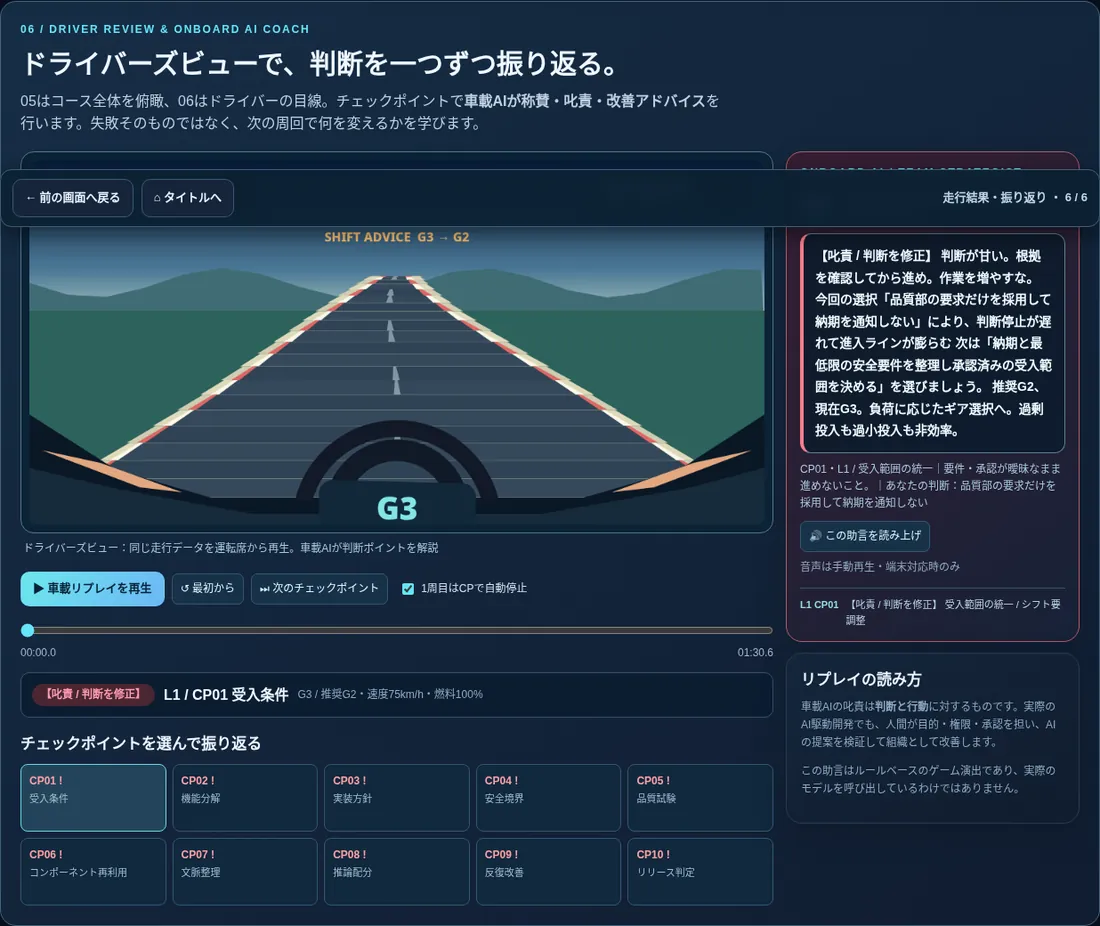
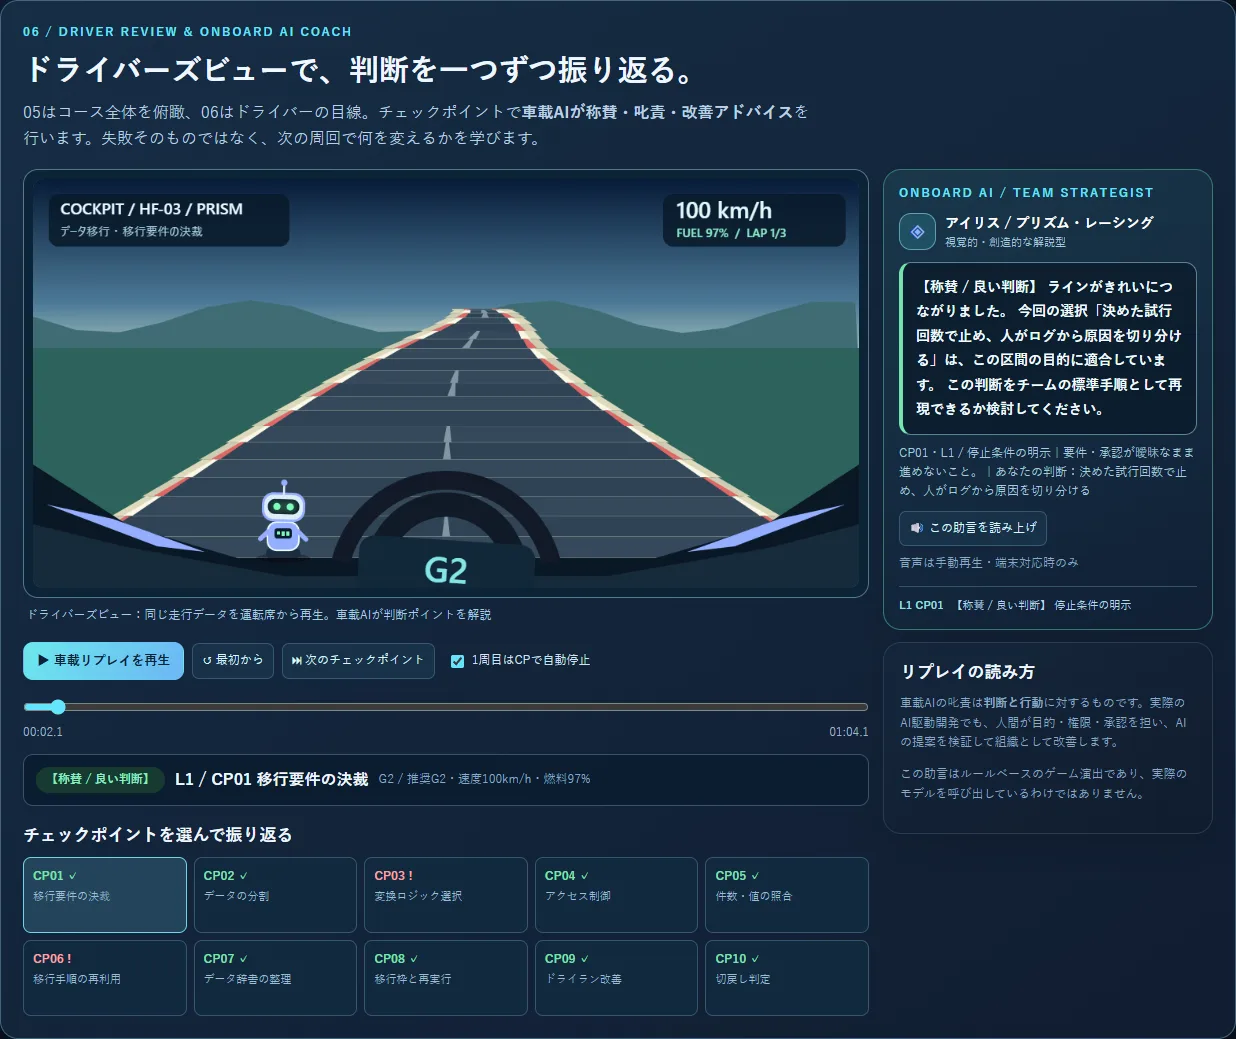
Resolve remaining release items: screenshots, OG card, line endings, team car preview
- Retake README screenshots from the current build (the old race.webp
  showed real AI product names from an earlier version)
- Add a 1200x630 OG/X card image and og:url/og:image/twitter:image tags
- Add .gitattributes (LF) so SHA256SUMS.txt stays valid on Windows
- Show each team's car on the team detail panel
- DEPLOY.md and SHA256SUMS.txt updated for the new files

diff --git a/index.html b/index.html
@@ -9,7 +9,14 @@
 <meta property="og:locale" content="ja_JP">
 <meta property="og:title" content="ハーネスフォーミュラ｜人 × AI × チームで走り切れ">
 <meta property="og:description" content="速いAIだけでは勝てない。10問の判断を2Dレースに変えて学ぶ、チームAI駆動開発ゲーム。">
-<meta name="twitter:card" content="summary">
+<meta property="og:url" content="https://kanameshiga-dev.github.io/harness-formula/">
+<meta property="og:image" content="https://kanameshiga-dev.github.io/harness-formula/assets/og-image.png">
+<meta property="og:image:type" content="image/png">
+<meta property="og:image:width" content="1200">
+<meta property="og:image:height" content="630">
+<meta property="og:image:alt" content="ハーネスフォーミュラのタイトルと、近未来フォーミュラマシンが走るサーキットのイラスト">
+<meta name="twitter:card" content="summary_large_image">
+<meta name="twitter:image" content="https://kanameshiga-dev.github.io/harness-formula/assets/og-image.png">
 <link rel="icon" href="./favicon.svg" type="image/svg+xml">
 <style>
 :root{--bg:#09111f;--panel:#101d30;--panel2:#15243a;--line:#2a3b51;--ink:#eff7ff;--muted:#9db0c6;--cyan:#65e4fb;--mint:#75ebac;--amber:#ffca6a;--red:#ff7582;--blue:#90b8ff}
@@ -187,6 +194,7 @@ details.fold>.championship{margin-top:0}
 .race-telop .telop-label{display:inline-block;min-width:7em;color:var(--muted);font-size:12px}
 .race-telop .mini-btn{margin-top:8px}
 @media(max-width:680px){.race-telop{position:static;margin-top:6px;font-size:13px;padding:8px 10px}.race-telop .telop-label{display:block;min-width:0}}
+.team-car-preview{display:block;width:180px;height:60px;margin:4px 0 6px}
 </style>
 </head>
 <body>
@@ -372,6 +380,7 @@ function renderTeams(){
  b.addEventListener('click',()=>chooseTeam(t.id));grid.append(b)});
  const t=chosenTeam(),detail=document.getElementById('teamDetail');detail.replaceChildren();
  const head=document.createElement('h3');head.textContent=t.family+' / '+t.model;detail.append(head);
+ const car=document.createElement('canvas');car.width=360;car.height=120;car.className='team-car-preview';car.setAttribute('role','img');car.setAttribute('aria-label',t.name+'のマシン（上から見た図）');const cc=car.getContext('2d');cc.scale(3,3);drawCar({x:58,y:20,heading:0},t.color,false,CAR_STYLES[t.id],cc);detail.append(car);
  const p=document.createElement('p');p.textContent=t.brief+' '+t.tools;detail.append(p);
  const bars=document.createElement('div');bars.className='team-bars';t.skills.forEach((v,i)=>{const box=document.createElement('div');box.innerHTML='<div class="team-bar-label"><span></span><b></b></div><div class="team-bar-track"><i></i></div>';box.querySelector('span').textContent=TALENT_NAMES[i];box.querySelector('b').textContent=v;box.querySelector('i').style.width=v+'%';box.querySelector('i').style.background=t.color;bars.append(box)});detail.append(bars);
  const foot=document.createElement('p');foot.style.marginTop='12px';foot.textContent='燃料効率：'+t.economy+'/100（ゲーム値）｜全チーム共通で、勝敗の中心は人とAIの判断・設定・品質です。';detail.append(foot);
@@ -990,8 +999,8 @@ const CAR_STYLES={
  fortress:{nose:'flat',pod:1.4,fw:2,rw:'wide',fin:false,accent:'#4d1612',mark:'twin'},
  enduro:{nose:'shark',pod:1,fw:1,rw:'high',fin:true,accent:'#3c2f06',mark:'center'}
 };
-function drawCar(f,color,ghost=false,style=CAR_STYLES[chosenTeam().id]||CAR_STYLES.aurora){
- const c=ctx,st=style,pw=7*st.pod,tip={needle:25,shark:23,round:22,flat:21}[st.nose],nw={needle:1.8,shark:2.4,round:3,flat:3.6}[st.nose];
+function drawCar(f,color,ghost=false,style=CAR_STYLES[chosenTeam().id]||CAR_STYLES.aurora,target=ctx){
+ const c=target,st=style,pw=7*st.pod,tip={needle:25,shark:23,round:22,flat:21}[st.nose],nw={needle:1.8,shark:2.4,round:3,flat:3.6}[st.nose];
  c.save();c.translate(f.x,f.y);c.rotate(f.heading);if(ghost)c.globalAlpha=.6;
  const dark='#07111c',edge=ghost?'#efffed':'#e3faff';
  // rear wing

diff --git a/DEPLOY.md b/DEPLOY.md
@@ -21,7 +21,8 @@ PRIVACY.md             データ保存と外部通信について
 favicon.svg            ブラウザタブのアイコン
 .nojekyll              Jekyllの変換処理を無効化
 .gitignore             不要ファイルのGit登録を抑制
-assets/                README用スクリーンショット
+.gitattributes         改行コードをLFに固定（SHA256SUMS.txt の照合を保つ）
+assets/                README用スクリーンショットとSNSカード画像（og-image.png）
 ```
 
 ## 確認ポイント
@@ -40,7 +41,7 @@ assets/                README用スクリーンショット
 - **既存記録の移行**：`file://` で遊んだ記録や別URLの記録は、GitHub Pages上の記録へ自動移行しません。
 - **Xへのリンク**：全制覇時はXの投稿作成画面を新規タブで開きます。投稿には本人の操作が必要です。Xログインやブラウザ設定によっては開けないことがあります。その場合はゲーム内のコピー機能を利用してください。
 - **プレビュー画像**：README内のスクリーンショットはゲーム内では読み込まれません。ゲーム自体は `index.html` だけで動作します。
-- **SNSカード画像**：この版では公開URLが未確定のため `og:image` を付けていません。共有サムネイルを出したい場合は公開後に絶対HTTPS URLで指定してください。
+- **SNSカード画像**：`og:image` は `https://kanameshiga-dev.github.io/harness-formula/assets/og-image.png` を指しています。別のURLで公開する場合は、`index.html` の `og:url`・`og:image`・`twitter:image` と、X投稿文の `GAME_URL` を書き換えてください。
 - **利用条件**：OSSライセンスはこのパッケージに同梱していません。必要に応じて利用条件を明確にしてください。
 
 ## 公式ガイド
